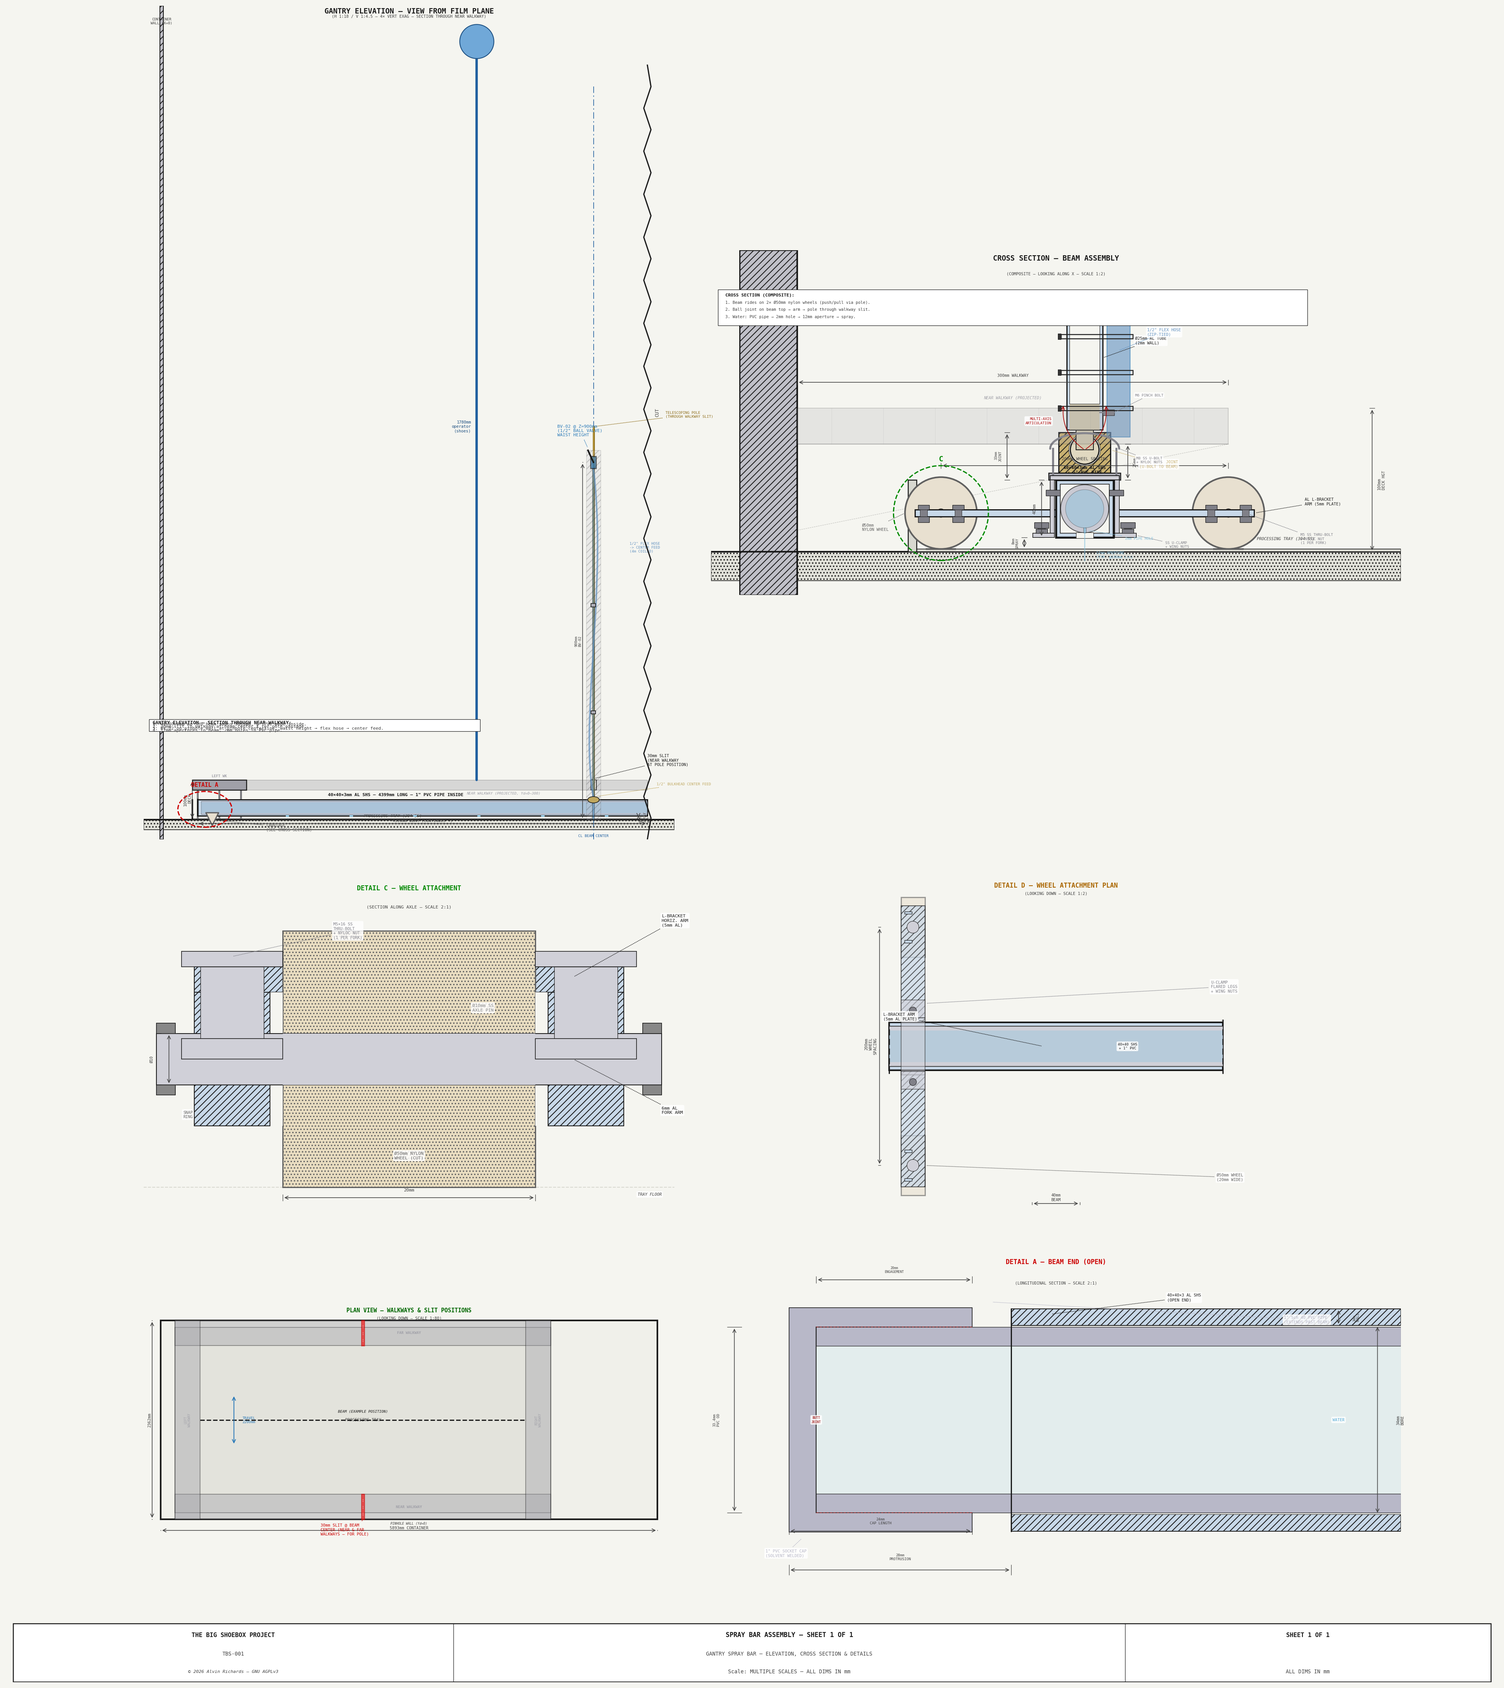
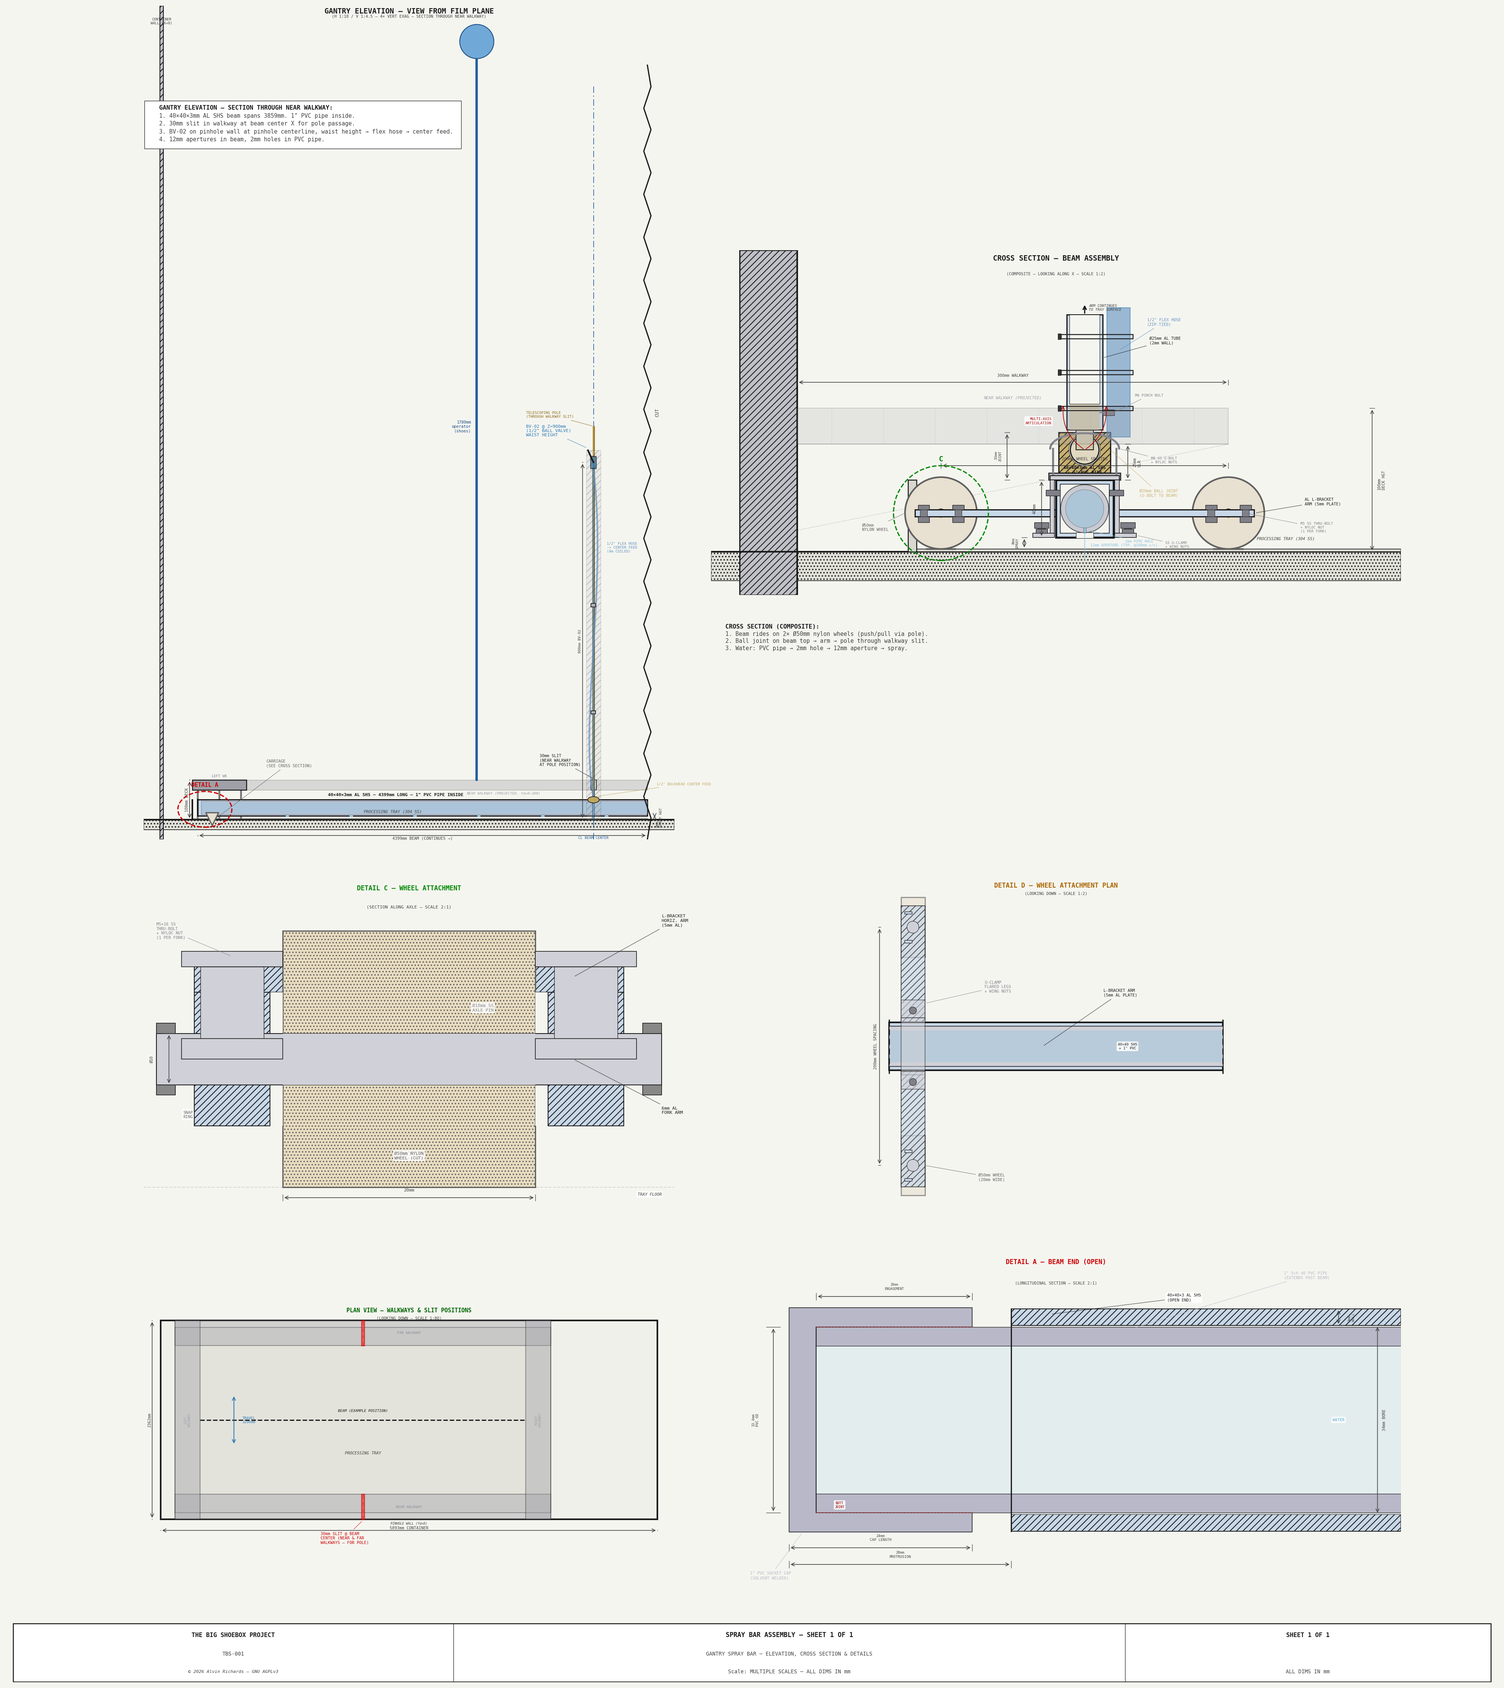
Tidy labels

diff --git a/generate_spray_bar_diagram.py b/generate_spray_bar_diagram.py
@@ -168,7 +168,7 @@ ax.add_patch(Rectangle((sx(tray_x_l - rim_w / 2), sz(0)),
                          rim_w / H_SC, PROC_TRAY_RIM / V_SC,
                          fc=C_TRAY, ec=C_OUT, lw=1.0, zorder=5))
 
-ax.text(sx((tray_x_l + pole_x) / 2), sz(TRAY_FLOOR_Z + 3),
+ax.text(sx((tray_x_l + pole_x) / 2), sz(TRAY_FLOOR_Z + 13),
         "PROCESSING TRAY (304 SS)", ha="center", va="bottom",
         fontsize=5, color=C_DIM, style="italic", **FONT, zorder=10)
 
@@ -207,7 +207,7 @@ ax.add_patch(Rectangle((sx(slit_x_l), sz(GRATE_Z_BOT)),
                          SLIT_WIDTH / H_SC, WALKWAY_GRATE_T / V_SC,
                          fc=C_BG, ec=C_FRAME, lw=1.0, zorder=8.5))
 leader(ax, sx(pole_x), sz(GRATE_Z_TOP + 3),
-       sx(pole_x + 300), sz(GRATE_Z_TOP + 50),
+       sx(pole_x - 300), sz(GRATE_Z_TOP + 50),
        f"{SLIT_WIDTH}mm SLIT\n(NEAR WALKWAY\nAT POLE POSITION)",
        fs=5, color=C_FRAME, font=FONT, zorder=15)
 
@@ -284,7 +284,7 @@ ax.plot([sx(pole_x), sx(pole_x)],
         color="#BFA040", lw=1.0, zorder=10.5)
 
 leader(ax, sx(pole_x + 5), sz(pole_top_z),
-       sx(pole_x + 400), sz(pole_top_z + 30),
+       sx(pole_x - 375), sz(pole_top_z + 30),
        "TELESCOPING POLE\n(THROUGH WALKWAY SLIT)",
        fs=4.5, color="#8B6914", font=FONT, zorder=15)
 
@@ -321,7 +321,7 @@ ax.plot([sx(BV02_X), sx(BV02_X - 30)],
         color=C_FRAME, lw=2.0, zorder=12)
 
 leader(ax, sx(BV02_X - 30), sz(bv_z + 35),
-       sx(BV02_X - 200), sz(bv_z + 80),
+       sx(BV02_X - 375), sz(bv_z + 80),
        f"BV-02 @ Z={int(bv_z)}mm\n(1/2\" BALL VALVE)\nWAIST HEIGHT",
        fs=5.5, color=C_BLUE, font=FONT, zorder=15)
 
@@ -345,7 +345,7 @@ hose_zs += 3.0 * np.sin(np.linspace(0, 14 * np.pi, n_pts)) * envelope
 ax.plot([sx(x) for x in hose_xs], [sz(z) for z in hose_zs],
         color=C_HOSE, lw=2.0, alpha=0.7, zorder=11)
 
-ax.text(sx(BV02_X + 200), sz(bv_z - 200),
+ax.text(sx(BV02_X + 75), sz(bv_z - 200),
         "1/2\" FLEX HOSE\n-> CENTER FEED\n(4m COILED)",
         ha="left", va="top", fontsize=4.5, color=C_HOSE, **FONT, zorder=15)
 
@@ -362,26 +362,26 @@ leader(ax, sx(pole_x + feed_dot_r), sz(BEAM_Z_TOP + feed_dot_r),
 # ── Centerline through beam and slit ─────────────────────────────────────
 ax.plot([sx(pole_x), sx(pole_x)], [sz(Z_LO), sz(Z_HI - 200)],
         color=C_CL, lw=0.8, ls=(0, (10, 4, 2, 4)), zorder=1.5)
-ax.text(sx(pole_x), sz(Z_LO + 5), "CL BEAM CENTER",
+ax.text(sx(pole_x-1), sz(Z_LO), "CL BEAM CENTER",
         ha="center", va="bottom", fontsize=4.5, color=C_CL, **FONT, zorder=2)
 
 # ── Dimensions ────────────────────────────────────────────────────────────
 # Beam span shown with note (full span beyond cut)
-draw_dim_h(ax, sx(beam_x_l), sx(beam_vis_r), sz(BEAM_Z_BOT - 20),
+draw_dim_h(ax, sx(beam_x_l), sx(beam_vis_r), sz(BEAM_Z_BOT - 50),
            f"{beam_length}mm BEAM (CONTINUES →)",
-           offset=6 / V_SC, fs=5, font=FONT)
+           offset=4 / V_SC, fs=5, font=FONT, above=False)
 
-draw_dim_v(ax, sx(beam_x_l - 30), sz(0), sz(GRATE_Z_TOP),
-           f"{WALKWAY_H}mm\nDECK",
+draw_dim_v(ax, sx(beam_x_l - 45), sz(0), sz(GRATE_Z_TOP),
+           f"{WALKWAY_H}mm DECK",
            offset=6 / H_SC, fs=5, font=FONT)
 
-draw_dim_v(ax, sx(CUT_X - 50), sz(TRAY_FLOOR_Z), sz(BEAM_Z_BOT),
-           f"{BEAM_Z_BOT - TRAY_FLOOR_Z:.0f}mm\nSPRAY\nHGT",
-           offset=6 / H_SC, fs=4.5, font=FONT, right=True)
+draw_dim_v(ax, sx(CUT_X + 40), sz(TRAY_FLOOR_Z), sz(BEAM_Z_BOT),
+           f"{BEAM_Z_BOT - TRAY_FLOOR_Z:.0f}mm\nSPRAY HGT",
+           offset=8 / H_SC, fs=4.5, font=FONT, right=True)
 
 draw_dim_v(ax, sx(BV02_X - 60), sz(0), sz(bv_z),
-           f"{int(bv_z)}mm\nBV-02",
-           offset=6 / H_SC, fs=4.5, font=FONT)
+           f"{int(bv_z)}mm BV-02",
+           offset=8 / H_SC, fs=4.5, font=FONT)
 
 # ── Notes (positioned low to avoid hiding graphics) ─────────────────────
 notes = [
@@ -391,8 +391,8 @@ notes = [
     "3. BV-02 on pinhole wall at pinhole centerline, waist height → flex hose → center feed.",
     "4. 12mm apertures in beam, 2mm holes in PVC pipe.",
 ]
-draw_notes(ax, notes, sx(X_LO + 50), sz(250), spacing=5 / V_SC,
-           fs=5.5, font=FONT, width=1800 / H_SC)
+draw_notes(ax, notes, sx(X_LO + 85), sz(1800), spacing=20 / V_SC,
+           fs=7, font=FONT, width=1600 / H_SC)
 
 # ── Person silhouette (same style as hinge panel diagram) ───────────────
 PERSON_H = 1780
@@ -444,7 +444,7 @@ ax.plot([sx(carriage_cx), sx(carriage_cx)],
         color=C_FRAME, lw=1.0, ls="--", zorder=10)
 
 leader(ax, sx(carriage_cx + 10), sz(TRAY_FLOOR_Z - 3),
-       sx(carriage_cx + 300), sz(TRAY_FLOOR_Z - 22),
+       sx(carriage_cx + 300), sz(TRAY_FLOOR_Z + 140),
        "CARRIAGE\n(SEE CROSS SECTION)",
        fs=5, color=C_WHEEL, font=FONT, zorder=15)
 
@@ -550,45 +550,45 @@ leader(ax_a, beam_end_x + 5, 19, beam_end_x + 20, d_yt - 8,
        "40×40×3 AL SHS\n(OPEN END)",
        fs=5, color=C_FRAME, font=FONT, zorder=20, bbox=_bbox_a)
 
-leader(ax_a, (cap_open_x + beam_end_x) / 2, pvc_od_h + CAP_WALL_T + 1,
-       d_xr - 15, d_yt - 12,
+leader(ax_a, (cap_open_x + beam_end_x/2)+20, pvc_od_h + CAP_WALL_T - 4,
+       d_xr - 15, d_yt - 4,
        "1\" Sch 40 PVC PIPE\n(EXTENDS PAST BEAM)",
-       fs=5, color=C_PVC, font=FONT, zorder=20, bbox=_bbox_a)
+       fs=5, color=C_PVC, font=FONT, zorder=20)
 
-leader(ax_a, cap_closed_x + CAP_CLOSED_T / 2, -cap_od_h - 1,
-       cap_closed_x - 3, d_yb + 6,
+leader(ax_a, cap_closed_x + CAP_CLOSED_T / 2, -cap_od_h,
+       cap_closed_x - 5, d_yb + 2,
        "1\" PVC SOCKET CAP\n(SOLVENT WELDED)",
-       fs=5, color=C_PVC, font=FONT, zorder=20, bbox=_bbox_a)
+       fs=5, color=C_PVC, font=FONT, zorder=20)
 
 ax_a.text(d_xr - 8, 0, "WATER",
           ha="center", va="center", fontsize=5, color=C_WATER,
           fontweight="bold", bbox=_bbox_a, **FONT, zorder=15)
 
-ax_a.text((pipe_end_x + cap_closed_x + CAP_CLOSED_T) / 2, 0,
+ax_a.text((pipe_end_x + cap_closed_x + CAP_CLOSED_T) / 2 + 3, -PVC_OD+PVC_ID - 8.5,
           "BUTT\nJOINT",
           ha="center", va="center", fontsize=4, color="#AA3030",
           fontweight="bold", bbox=_bbox_a, **FONT, zorder=15)
 
 # ── Dimensions ────────────────────────────────────────────────────────────
-draw_dim_h(ax_a, cap_closed_x, beam_end_x, d_yb + 3,
+draw_dim_h(ax_a, cap_closed_x, beam_end_x, d_yb + 4,
            f"{PVC_EXTEND + CAP_CLOSED_T:.0f}mm\nPROTRUSION",
-           offset=3, fs=4.5, font=FONT)
+           offset=2, fs=4.5, font=FONT)
 
-draw_dim_h(ax_a, cap_closed_x, cap_open_x, d_yb + 10,
+draw_dim_h(ax_a, cap_closed_x, cap_open_x, d_yb + 7,
            f"{CAP_SOCKET_DEPTH + CAP_CLOSED_T:.0f}mm\nCAP LENGTH",
            offset=2, fs=4.5, font=FONT)
 
-draw_dim_h(ax_a, pipe_end_x, cap_open_x, cap_od_h + 5,
+draw_dim_h(ax_a, pipe_end_x, cap_open_x, cap_od_h + 2,
            f"{CAP_SOCKET_DEPTH}mm\nENGAGEMENT",
            offset=2, fs=4, font=FONT)
 
 draw_dim_v(ax_a, d_xr - 3, -17, 17,
-           "34mm\nBORE", offset=4, fs=5, font=FONT, right=True)
+           "34mm BORE", offset=1, fs=5, font=FONT, right=True)
 
 draw_dim_v(ax_a, d_xr - 8, 17, 20,
-           "3mm\nWALL", offset=3, fs=4.5, font=FONT, right=True)
+           "3mm\nWALL", offset=2, fs=4.5, font=FONT, right=True)
 
-draw_dim_v(ax_a, d_xl + 3, -pvc_od_h, pvc_od_h,
+draw_dim_v(ax_a, d_xl + 8, -pvc_od_h, pvc_od_h,
            f"{PVC_OD:.1f}mm\nPVC OD", offset=3, fs=4.5, font=FONT)
 
 
@@ -747,7 +747,7 @@ for w_yd in [wheel1_yd, wheel2_yd]:
                                    fc=C_BOLT, ec=C_FRAME, lw=0.6, zorder=11))
 
 leader(ax2, cy(wheel2_yd + WHEEL_WIDTH / 2 + 2), cz(WHEEL_AXLE_Z),
-       cy(wheel2_yd + 50), cz(WHEEL_AXLE_Z - 18),
+       cy(wheel2_yd + 50), cz(WHEEL_AXLE_Z - 10),
        "M5 SS THRU-BOLT\n+ NYLOC NUT\n(1 PER FORK)",
        fs=4.5, color=C_BOLT, font=FONT, zorder=15)
 
@@ -827,11 +827,11 @@ ax2.plot([cy(carriage_yd_center), cy(carriage_yd_center)],
           [cz(pipe_id_bot_z), cz(BEAM_Z_BOT - 16)],
           color=C_WATER, lw=1.2, alpha=0.6, zorder=9.2)
 leader(ax2, cy(carriage_yd_center + PIPE_HOLE_DIA / 2 + 1), cz(pipe_od_bot_z + PVC_WALL / 2),
-       cy(carriage_yd_center + 28), cz(pipe_od_bot_z - 4),
+       cy(carriage_yd_center + 28), cz(pipe_od_bot_z - 6),
        f"2mm PIPE HOLE",
        fs=4.5, color=C_WATER, font=FONT, zorder=15)
-ax2.text(cy(carriage_yd_center + 8), cz(BEAM_Z_BOT - 12),
-          f"12mm APERTURE\n(TYP. @{SPRAY_BAR_HOLE_SP}mm c/c)",
+ax2.text(cy(carriage_yd_center + 4), cz(BEAM_Z_BOT - 5),
+          f"12mm APERTURE (TYP. @{SPRAY_BAR_HOLE_SP}mm c/c)",
           ha="left", va="center", fontsize=4.5, color=C_WATER, **FONT, zorder=15)
 
 # ── Detail C callout ─────────────────────────────────────────────────────
@@ -982,29 +982,29 @@ for zt_z in [arm_base_z_bj + 15, arm_base_z_bj + 40, arm_base_z_bj + 65]:
 
 # ── Labels ────────────────────────────────────────────────────────────
 leader(ax2, cy(carriage_yd_center + SOCKET_OD / 2), cz(ball_ctr_z),
-       cy(carriage_yd_center + SOCKET_OD / 2 + 20), cz(ball_ctr_z - 10),
+       cy(carriage_yd_center + SOCKET_OD / 2 + 20), cz(ball_ctr_z - 30),
        f"Ø{BALL_DIA}mm BALL JOINT\n(U-BOLT TO BEAM)",
-       fs=5, color=C_JOINT, font=FONT, zorder=20, bbox=_bbox_cs)
+       fs=5, color=C_JOINT, font=FONT, zorder=20)
 
 leader(ax2, cy(ubolt_r), cz(ub_arc_cz),
-       cy(ubolt_r + 12), cz(ub_arc_cz - 8),
+       cy(ubolt_r + 22), cz(ub_arc_cz - 8),
        "M8 SS U-BOLT\n+ NYLOC NUTS",
-       fs=4.5, color=C_BOLT, font=FONT, zorder=20, bbox=_bbox_cs)
+       fs=4.5, color=C_BOLT, font=FONT, zorder=20)
 
 leader(ax2, cy(carriage_yd_center + ARM_OD / 2 + 8), cz(pinch_z),
        cy(carriage_yd_center + 35), cz(pinch_z + 12),
        "M6 PINCH BOLT",
-       fs=4.5, color=C_BOLT, font=FONT, zorder=20, bbox=_bbox_cs)
+       fs=4.5, color=C_BOLT, font=FONT, zorder=20)
 
 leader(ax2, cy(carriage_yd_center + ARM_OD / 2), cz(arm_base_z_bj + 50),
-       cy(carriage_yd_center + 35), cz(arm_base_z_bj + 62),
+       cy(carriage_yd_center + 45), cz(arm_base_z_bj + 62),
        f"Ø{ARM_OD}mm AL TUBE\n(2mm WALL)",
-       fs=5, color=C_FRAME, font=FONT, zorder=20, bbox=_bbox_cs)
+       fs=5, color=C_FRAME, font=FONT, zorder=20)
 
 leader(ax2, cy(hose_ctr_yd), cz(arm_base_z_bj + 55),
-       cy(hose_ctr_yd + 20), cz(arm_base_z_bj + 68),
+       cy(hose_ctr_yd + 20), cz(arm_base_z_bj + 75),
        "1/2\" FLEX HOSE\n(ZIP-TIED)",
-       fs=5, color=C_HOSE, font=FONT, zorder=20, bbox=_bbox_cs)
+       fs=5, color=C_HOSE, font=FONT, zorder=20)
 
 # ── Dimensions ───────────────────────────────────────────────────────
 draw_dim_v(ax2, cy(c_beam_l - 10), cz(BEAM_Z_BOT), cz(BEAM_Z_TOP),
@@ -1041,8 +1041,8 @@ cs_notes = [
     "2. Ball joint on beam top → arm → pole through walkway slit.",
     "3. Water: PVC pipe → 2mm hole → 12mm aperture → spray.",
 ]
-draw_notes(ax2, cs_notes, cy(C_YD_LO + 10), cz(C_Z_HI - 30), spacing=5 / SC2,
-           fs=5, font=FONT, width=400 / SC2)
+draw_notes(ax2, cs_notes, cy(C_YD_LO + 10), cz(C_Z_HI - 260), spacing=5 / SC2,
+           fs=7, font=FONT, width=100 / SC2)
 
 # ─────────────────────────────────────────────────────────────────────────────
 # DETAIL C INSET — Wheel attachment (section along axle centerline)
@@ -1138,11 +1138,11 @@ ax_w.text(w_xr - 1, -26, "TRAY FLOOR",
 
 leader(ax_w, 13, 16, w_xr - 1, w_yt - 8,
        "L-BRACKET\nHORIZ. ARM\n(5mm AL)",
-       fs=5.5, color=C_FRAME, font=FONT, zorder=20, bbox=_bbox_w)
+       fs=5.5, color=C_FRAME, font=FONT, zorder=20)
 
 leader(ax_w, 13, 0, w_xr - 1, -10,
        "6mm AL\nFORK ARM",
-       fs=5.5, color=C_FRAME, font=FONT, zorder=20, bbox=_bbox_w)
+       fs=5.5, color=C_FRAME, font=FONT, zorder=20)
 
 ax_w.text(0, -18, "Ø50mm NYLON\nWHEEL (CUT)",
           ha="center", va="top", fontsize=5.5, color=C_WHEEL,
@@ -1156,9 +1156,9 @@ ax_w.text(-17.5, -10, "SNAP\nRING",
           ha="center", va="top", fontsize=5, color="#666666",
           bbox=_bbox_w, **FONT, zorder=20)
 
-leader(ax_w, -14, 20, -6, w_yt - 10,
+leader(ax_w, -14, 20, -20, w_yt - 10,
        "M5×16 SS\nTHRU-BOLT\n+ NYLOC NUT\n(1 PER FORK)",
-       fs=5, color="#808088", font=FONT, zorder=20, bbox=_bbox_w)
+       fs=5, color="#808088", font=FONT, zorder=20)
 
 # ── Dimensions ────────────────────────────────────────────────────────────
 draw_dim_h(ax_w, -10, 10, w_yb + 3,
@@ -1263,9 +1263,9 @@ for side in [-1, 1]:
 
 leader(ax_d, px(CARRIAGE_OFFSET_X + arm_w_x / 2),
        py_d(BEAM_W / 2 + UC_GAP + UC_T + UC_FLARE),
-       px(D_X_HI - 30), py_d(BEAM_W / 2 + 30),
+       px(BEAM_W - 100), py_d(BEAM_W / 2 + 30),
        "U-CLAMP\nFLARED LEGS\n+ WING NUTS",
-       fs=5, color=C_BOLT, font=FONT, zorder=20, bbox=_bbox_d)
+       fs=5, color=C_BOLT, font=FONT, zorder=20)
 
 # ── Fork brackets (vertical plates straddling each wheel) ────────────────
 fork_t = 6
@@ -1293,24 +1293,19 @@ for w_sign in [-1, 1]:
 # ── Labels ──────────────────────────────────────────────────────────────
 leader(ax_d, px(CARRIAGE_OFFSET_X + WHEEL_WIDTH / 2),
        py_d(-WHEEL_SPACING_YD / 2),
-       px(D_X_HI - 25), py_d(-WHEEL_SPACING_YD / 2 - 10),
+       px(D_X_HI - 225), py_d(-WHEEL_SPACING_YD / 2 - 10),
        f"Ø{WHEEL_DIA}mm WHEEL\n({WHEEL_WIDTH}mm WIDE)",
-       fs=5, color=C_WHEEL, font=FONT, zorder=20, bbox=_bbox_d)
+       fs=5, color=C_WHEEL, font=FONT, zorder=20)
 
 leader(ax_d, px(-arm_w_x / 2 - 1), py_d(0),
-       px(D_X_LO + 15), py_d(25),
+       px(D_X_LO + 200), py_d(45),
        "L-BRACKET ARM\n(5mm AL PLATE)",
-       fs=5, color=C_FRAME, font=FONT, zorder=20, bbox=_bbox_d)
+       fs=5, color=C_FRAME, font=FONT, zorder=20)
 
 # ── Dimensions ──────────────────────────────────────────────────────────
 draw_dim_v(ax_d, px(D_X_LO + 12),
            py_d(-WHEEL_SPACING_YD / 2), py_d(WHEEL_SPACING_YD / 2),
-           f"{WHEEL_SPACING_YD}mm\nWHEEL\nSPACING",
-           offset=3 / SC_D, fs=5, font=FONT)
-
-draw_dim_h(ax_d, px(-BEAM_W / 2), px(BEAM_W / 2),
-           py_d(D_YD_LO + 8),
-           f"{BEAM_W}mm\nBEAM",
+           f"{WHEEL_SPACING_YD}mm WHEEL SPACING",
            offset=3 / SC_D, fs=5, font=FONT)
 
 # ─────────────────────────────────────────────────────────────────────────────
@@ -1357,7 +1352,7 @@ ax_p.add_patch(Rectangle((ppx(0), ppy(0)),
 ax_p.add_patch(Rectangle((ppx(PROC_TRAY_X_L), ppy(PROC_TRAY_YD_NEAR)),
                            PROC_TRAY_W / SC_P, PROC_TRAY_D / SC_P,
                            fc=C_TRAY, ec=C_OUT, lw=1.0, alpha=0.5, zorder=3))
-ax_p.text(ppx((PROC_TRAY_X_L + PROC_TRAY_X_R) / 2), ppy(C_WID / 2),
+ax_p.text(ppx((PROC_TRAY_X_L + PROC_TRAY_X_R) / 2), ppy(C_WID / 3),
           "PROCESSING TRAY",
           ha="center", va="center", fontsize=5, color=C_DIM,
           style="italic", **FONT, zorder=5)
@@ -1410,7 +1405,7 @@ ax_p.add_patch(Rectangle((ppx(slit_x), ppy(WALKWAY_FAR_YD)),
 
 # Slit label
 leader(ax_p, ppx(pole_x), ppy(-10),
-       ppx(pole_x - 500), ppy(-120),
+       ppx(pole_x - 500), ppy(-220),
        f"{SLIT_WIDTH}mm SLIT @ BEAM\nCENTER (NEAR & FAR\nWALKWAYS — FOR POLE)",
        fs=5, color="#CC0000", font=FONT, zorder=20)
 
@@ -1427,7 +1422,7 @@ beam_example_yd = PROC_TRAY_YD_NEAR + PROC_TRAY_D / 2
 ax_p.plot([ppx(PROC_OPEN_X_L), ppx(PROC_OPEN_X_R)],
           [ppy(beam_example_yd), ppy(beam_example_yd)],
           color=C_FRAME, lw=1.5, ls="--", zorder=6)
-ax_p.text(ppx((PROC_OPEN_X_L + PROC_OPEN_X_R) / 2), ppy(beam_example_yd + 80),
+ax_p.text(ppx((PROC_OPEN_X_L + PROC_OPEN_X_R) / 2), ppy(beam_example_yd + 90),
           "BEAM (EXAMPLE POSITION)",
           ha="center", va="bottom", fontsize=4.5, color=C_FRAME,
           style="italic", **FONT, zorder=8)

diff --git a/generate_walkway_diagram.py b/generate_walkway_diagram.py
@@ -804,8 +804,8 @@ def sheet1():
         (C_SUPPORT,  0.8,      None,  f"Support cradle / bearing strip (removable)"),
         ("#3DAA96",  0.35,     None,  f"Evap cooler transport stowage ({EVAP_W}×{EVAP_D}mm)"),
         ("#FF0000",  0.06,     None,  "Panel transport envelope"),
-        ("#CC6600",  0.7,      None,  "Ratchet strap (transport securing)"),
-    ], C_LEN - 2250, C_WID + PAD_Y_TOP - 10, col_w=2160, font=FONT)
+        ("#CC6600",  0.7,      None,  "Ratchet trap (transport securing)"),
+    ], C_LEN - 1225, C_WID + PAD_Y_TOP - 450, col_w=1100, font=FONT)
 
     # ── Notes ────────────────────────────────────────────────────────────────
     n_brackets_near = len(np.arange(LXR + WALKWAY_BRACKET_SPACING / 2,
@@ -826,9 +826,9 @@ def sheet1():
         f"8. EVAP COOLER TRANSPORT: stow on near walkway (X={EVAP_STOW_X}–{EVAP_STOW_X + EVAP_W}mm),",
         f"   ply base plate on grating, 2× ratchet straps to wall brackets. ~20 kg dry.",
     ]
-    draw_notes(ax, notes, C_LEN * 3 / 5 -50,
-               -PAD_Y_BOT + 350 + (len(notes) - 1) * 35,
-               spacing=35, fs=5.5, width=2600, font=FONT)
+    draw_notes(ax, notes, C_LEN * 0.7  -50,
+               -PAD_Y_BOT + 350 + (len(notes) - 1) * 30,
+               spacing=35, fs=5.5, width=1800, font=FONT)
 
     # ── Title block ───────────────────────────────────────────────────────────
     title_block(ax, "SHEET 1 OF 6",
